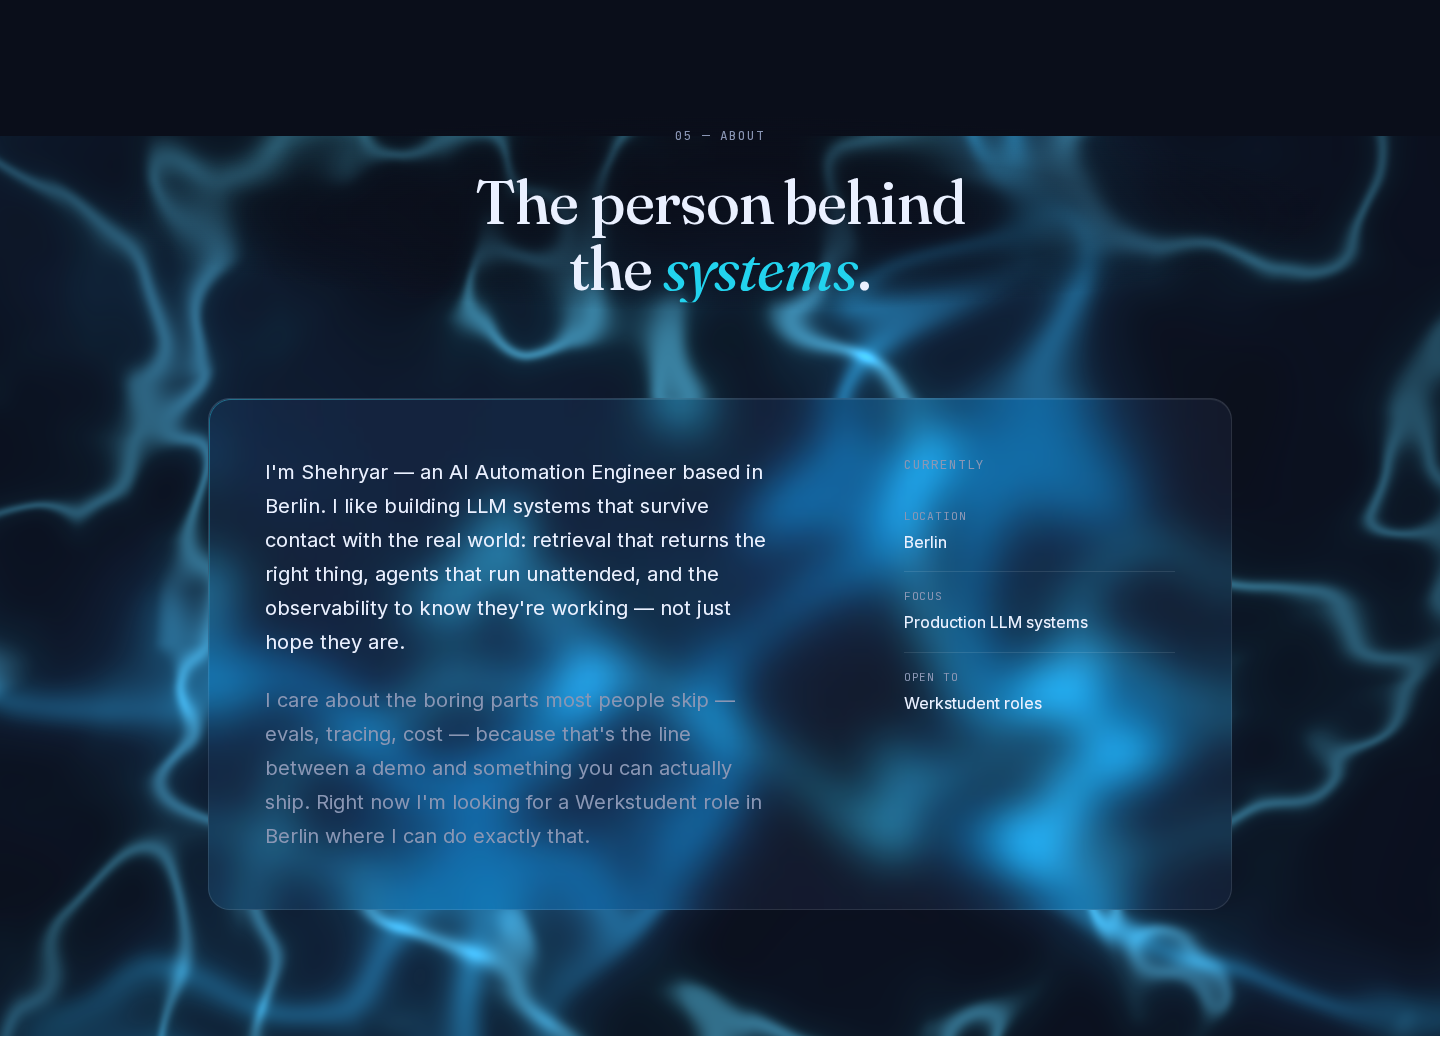
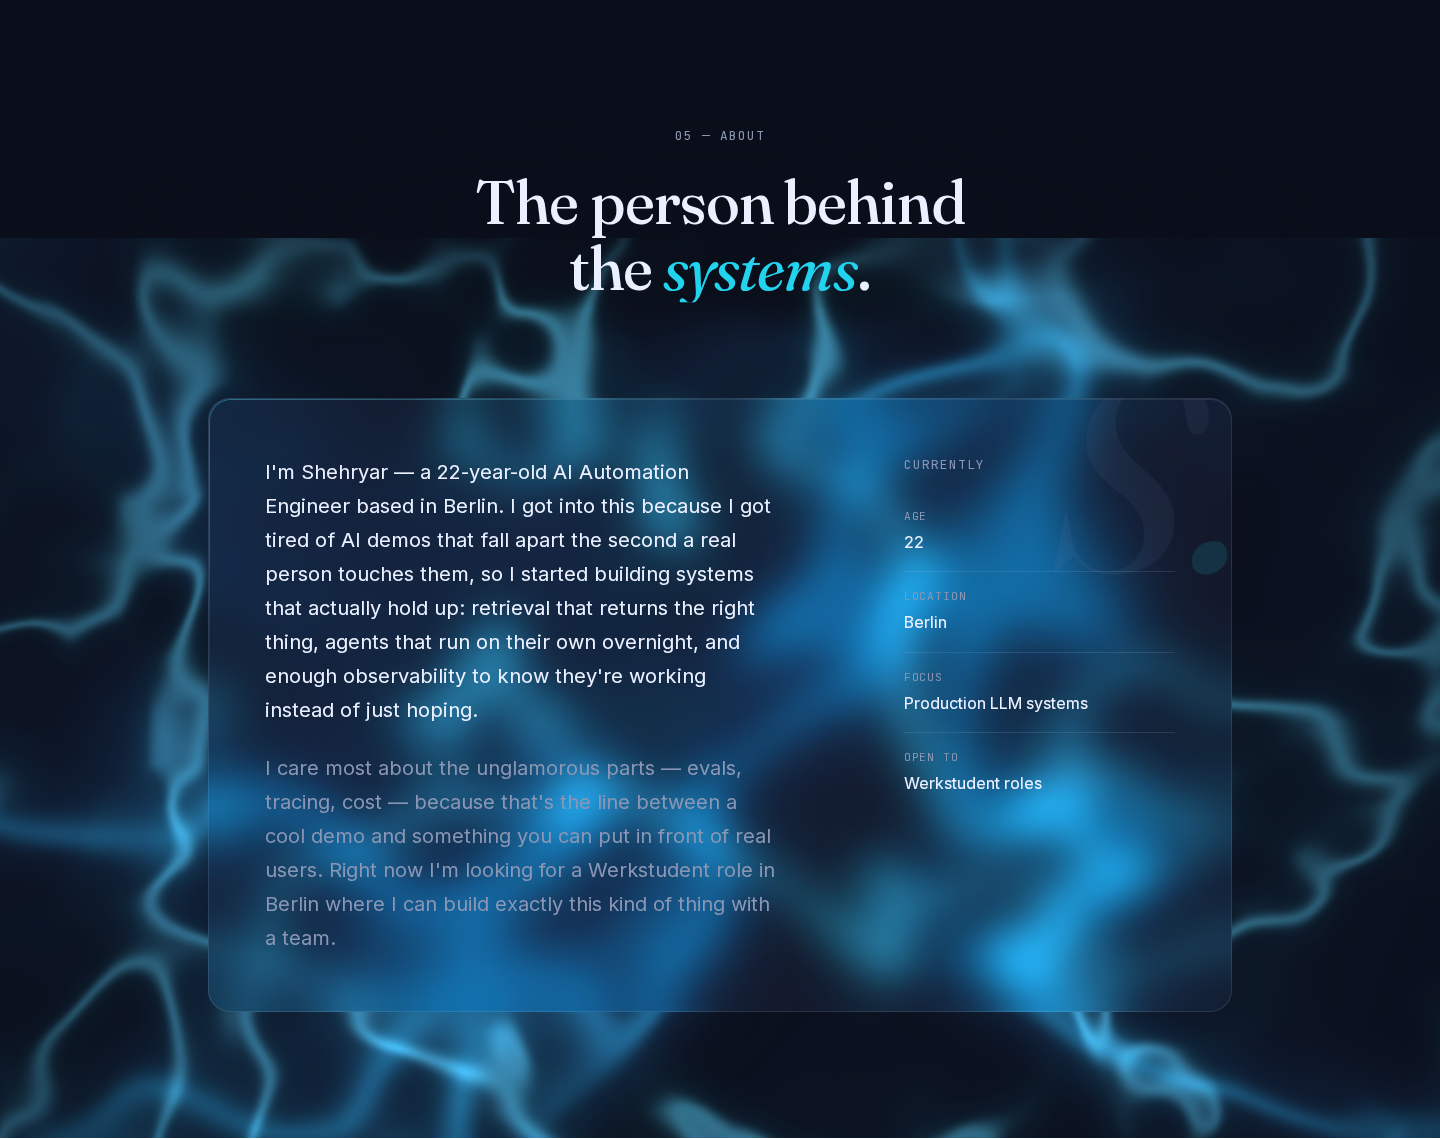
polish(portfolio-dark): About — humanized bio + monogram detail
- Bio rewritten to Sherry's warmer first-person draft (verbatim): the
  "tired of AI demos that fall apart" origin, overnight agents,
  unglamorous parts, Werkstudent close — first para in --text, second
  in --muted
- Currently list gains Age: 22 (mono + hairline styling unchanged)
- ONE visual touch: a giant faint Fraunces italic "S." monogram
  bleeding off the card's top-right corner (echoes the wordmark),
  period in low-alpha cyan, clipped by the card, behind the content
  layer — navy+cyan only, no clutter
- id="about" kept; reduced-motion unaffected; 375 readable, 0 overflow

Verified: 1440 + 375 captures, 0 console errors, tsc + eslint clean.

diff --git a/src/components/portfolio-dark/DarkAbout.tsx b/src/components/portfolio-dark/DarkAbout.tsx
@@ -1,6 +1,7 @@
 import Reveal from "@/components/portfolio/Reveal";
 
 const CURRENTLY = [
+  { label: "Age", value: "22" },
   { label: "Location", value: "Berlin" },
   { label: "Focus", value: "Production LLM systems" },
   { label: "Open to", value: "Werkstudent roles" },
@@ -57,12 +58,31 @@ export default function DarkAbout() {
           </Reveal>
         </div>
 
-        {/* Bio card — glass, traveling glow, bio left / currently right */}
+        {/* Bio card — glass, traveling glow, bio left / currently right,
+            giant faint monogram bleeding off the top-right corner */}
         <Reveal
-          className="glass glass-glow mx-auto mt-[var(--space-16)] max-w-[64rem] rounded-3xl lg:mt-[var(--space-24)]"
+          className="glass glass-glow relative mx-auto mt-[var(--space-16)] max-w-[64rem] overflow-hidden rounded-3xl lg:mt-[var(--space-24)]"
         >
+          {/* the one visual touch: Fraunces "S." — echoes the wordmark */}
+          <span
+            aria-hidden="true"
+            className="pointer-events-none absolute select-none"
+            style={{
+              top: "-0.22em",
+              right: "-0.04em",
+              fontFamily: "var(--font-display)",
+              fontStyle: "italic",
+              fontWeight: 500,
+              fontSize: "clamp(10rem, 24vw, 17rem)",
+              lineHeight: 1,
+              color: "rgba(140, 160, 200, 0.07)",
+              zIndex: 0,
+            }}
+          >
+            S<span style={{ color: "rgba(34, 211, 238, 0.13)" }}>.</span>
+          </span>
           <div
-            className="grid grid-cols-1 gap-[var(--space-8)] lg:grid-cols-12 lg:gap-[var(--space-12)]"
+            className="relative z-[1] grid grid-cols-1 gap-[var(--space-8)] lg:grid-cols-12 lg:gap-[var(--space-12)]"
             style={{ padding: "clamp(2rem, 5vw, 3.5rem)" }}
           >
             <div className="lg:col-span-7">
@@ -74,20 +94,23 @@ export default function DarkAbout() {
                   fontWeight: 420,
                 }}
               >
-                I&apos;m Shehryar — an AI Automation Engineer based in Berlin. I
-                like building LLM systems that survive contact with the real
-                world: retrieval that returns the right thing, agents that run
-                unattended, and the observability to know they&apos;re working —
-                not just hope they are.
+                I&apos;m Shehryar — a 22-year-old AI Automation Engineer based
+                in Berlin. I got into this because I got tired of AI demos that
+                fall apart the second a real person touches them, so I started
+                building systems that actually hold up: retrieval that returns
+                the right thing, agents that run on their own overnight, and
+                enough observability to know they&apos;re working instead of
+                just hoping.
               </p>
               <p
                 className="mt-[var(--space-6)]"
                 style={{ fontSize: "var(--step-1)", lineHeight: 1.7, color: "var(--muted)" }}
               >
-                I care about the boring parts most people skip — evals, tracing,
-                cost — because that&apos;s the line between a demo and something
-                you can actually ship. Right now I&apos;m looking for a
-                Werkstudent role in Berlin where I can do exactly that.
+                I care most about the unglamorous parts — evals, tracing, cost
+                — because that&apos;s the line between a cool demo and something
+                you can put in front of real users. Right now I&apos;m looking
+                for a Werkstudent role in Berlin where I can build exactly this
+                kind of thing with a team.
               </p>
             </div>
 
